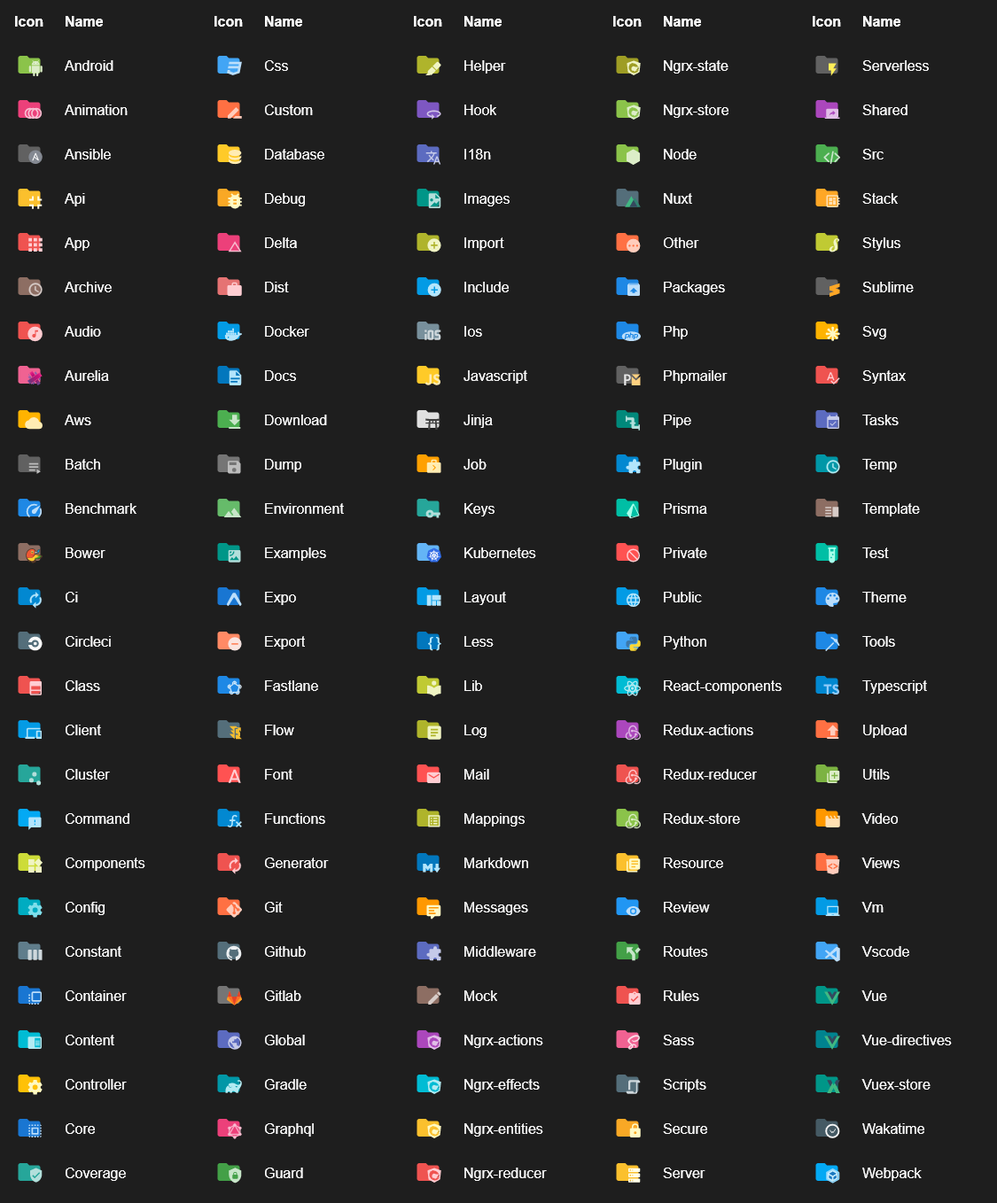
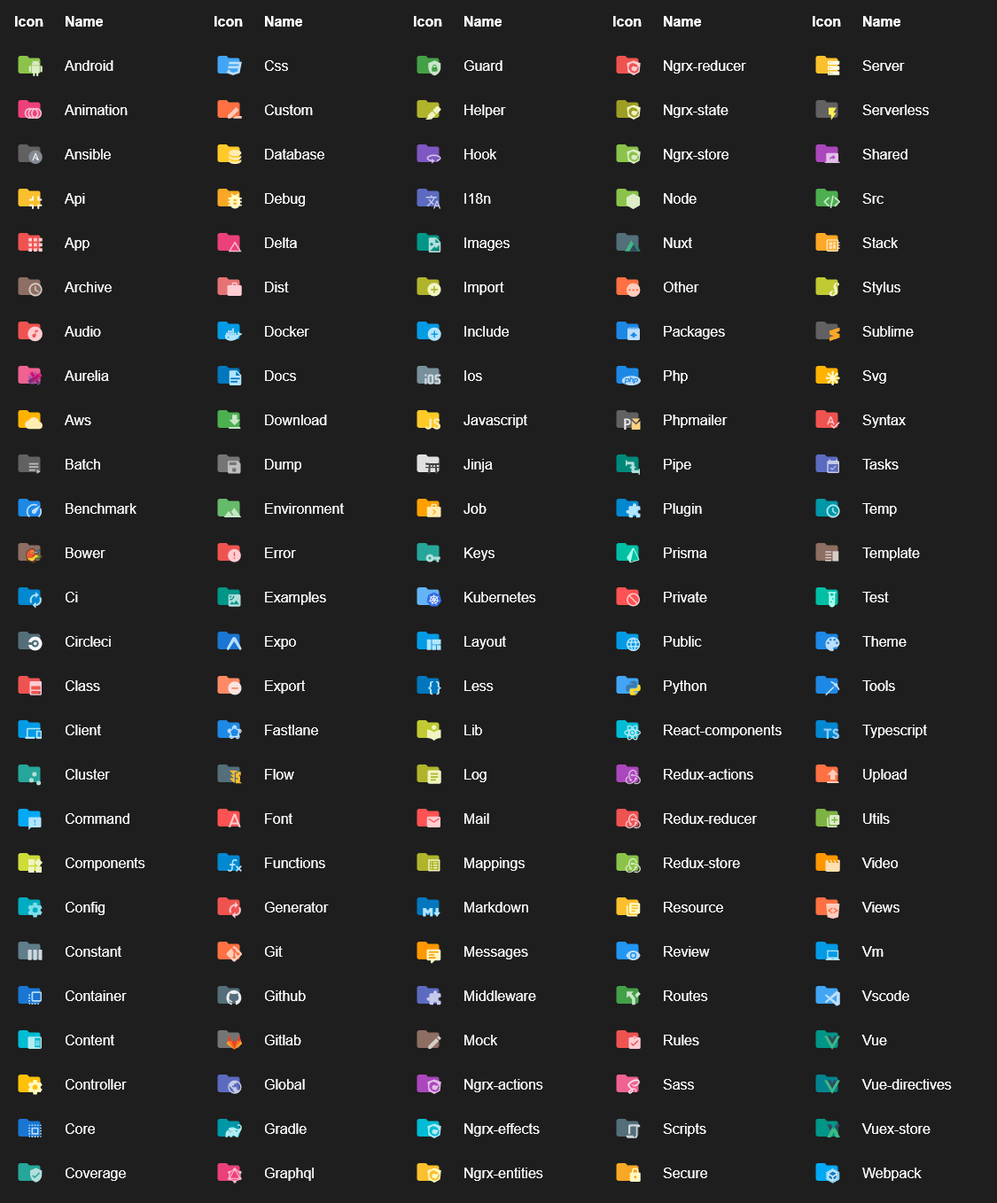
Release 3.8.1

diff --git a/src/scripts/preview/index.ts b/src/scripts/preview/index.ts
@@ -25,5 +25,5 @@ const folderThemes = filterDuplicates(folderIcons.map(theme => {
     return [].concat(...folders);
 }).reduce((a, b) => a.concat(b))).map(i => ({ iconName: i, label: i.replace('folder-', '') }));
 
-generatePreview('fileIcons', basicFileIcons, 5, ['powerpoint']);
-generatePreview('folderIcons', folderThemes, 5, ['folder', 'folder-meta']);
+generatePreview('fileIcons', basicFileIcons, 5, ['powerpoint', 'virtual']);
+generatePreview('folderIcons', folderThemes, 5, ['folder', 'folder-meta', 'folder-wakatime']);

diff --git a/README.md b/README.md
@@ -140,7 +140,7 @@ Press `Ctrl-Shift-P` to open the command palette and type `Material Icons`.
 ## Contributors
 
 [//]: #contributors (start)
-<a href="https://github.com/PKief" title="PKief"><img src="https://avatars2.githubusercontent.com/u/12248527?v=4" width="40px" height="40px" alt="PKief"/></a>&nbsp;<a href="https://github.com/AdrieanKhisbe" title="AdrieanKhisbe"><img src="https://avatars1.githubusercontent.com/u/2601132?v=4" width="40px" height="40px" alt="AdrieanKhisbe"/></a>&nbsp;<a href="https://github.com/dudeofawesome" title="dudeofawesome"><img src="https://avatars0.githubusercontent.com/u/1683595?v=4" width="40px" height="40px" alt="dudeofawesome"/></a>&nbsp;<a href="https://github.com/wopian" title="wopian"><img src="https://avatars0.githubusercontent.com/u/3440094?v=4" width="40px" height="40px" alt="wopian"/></a>&nbsp;<a href="https://github.com/Bakosa666" title="Bakosa666"><img src="https://avatars3.githubusercontent.com/u/38684615?v=4" width="40px" height="40px" alt="Bakosa666"/></a>&nbsp;<a href="https://github.com/diego3g" title="diego3g"><img src="https://avatars2.githubusercontent.com/u/2254731?v=4" width="40px" height="40px" alt="diego3g"/></a>&nbsp;<a href="https://github.com/felipe-fg" title="felipe-fg"><img src="https://avatars2.githubusercontent.com/u/32036831?v=4" width="40px" height="40px" alt="felipe-fg"/></a>&nbsp;<a href="https://github.com/jBugman" title="jBugman"><img src="https://avatars1.githubusercontent.com/u/891785?v=4" width="40px" height="40px" alt="jBugman"/></a>&nbsp;<a href="https://github.com/iFaxity" title="iFaxity"><img src="https://avatars3.githubusercontent.com/u/9090703?v=4" width="40px" height="40px" alt="iFaxity"/></a>&nbsp;<a href="https://github.com/melMass" title="melMass"><img src="https://avatars3.githubusercontent.com/u/7041726?v=4" width="40px" height="40px" alt="melMass"/></a>&nbsp;<a href="https://github.com/Mrgove10" title="Mrgove10"><img src="https://avatars0.githubusercontent.com/u/25491408?v=4" width="40px" height="40px" alt="Mrgove10"/></a>&nbsp;<a href="https://github.com/cezarsa" title="cezarsa"><img src="https://avatars1.githubusercontent.com/u/11041?v=4" width="40px" height="40px" alt="cezarsa"/></a>&nbsp;<a href="https://github.com/KristophUK" title="KristophUK"><img src="https://avatars2.githubusercontent.com/u/6653181?v=4" width="40px" height="40px" alt="KristophUK"/></a>&nbsp;<a href="https://github.com/jediyozh" title="jediyozh"><img src="https://avatars2.githubusercontent.com/u/31045769?v=4" width="40px" height="40px" alt="jediyozh"/></a>&nbsp;<a href="https://github.com/fahmiirsyadk" title="fahmiirsyadk"><img src="https://avatars0.githubusercontent.com/u/17546686?v=4" width="40px" height="40px" alt="fahmiirsyadk"/></a>&nbsp;<a href="https://github.com/iDaN5x" title="iDaN5x"><img src="https://avatars3.githubusercontent.com/u/3427523?v=4" width="40px" height="40px" alt="iDaN5x"/></a>&nbsp;<a href="https://github.com/jtiala" title="jtiala"><img src="https://avatars2.githubusercontent.com/u/1576782?v=4" width="40px" height="40px" alt="jtiala"/></a>&nbsp;<a href="https://github.com/mvochoa" title="mvochoa"><img src="https://avatars2.githubusercontent.com/u/7919838?v=4" width="40px" height="40px" alt="mvochoa"/></a>&nbsp;<a href="https://github.com/martin-sweeny" title="martin-sweeny"><img src="https://avatars1.githubusercontent.com/u/3329959?v=4" width="40px" height="40px" alt="martin-sweeny"/></a>&nbsp;<a href="https://github.com/teototaro" title="teototaro"><img src="https://avatars3.githubusercontent.com/u/6552833?v=4" width="40px" height="40px" alt="teototaro"/></a>&nbsp;<a href="https://github.com/niksudan" title="niksudan"><img src="https://avatars1.githubusercontent.com/u/6004491?v=4" width="40px" height="40px" alt="niksudan"/></a>&nbsp;<a href="https://github.com/yuric18" title="yuric18"><img src="https://avatars3.githubusercontent.com/u/18277197?v=4" width="40px" height="40px" alt="yuric18"/></a>&nbsp;<a href="https://github.com/denisbalyko" title="denisbalyko"><img src="https://avatars0.githubusercontent.com/u/638190?v=4" width="40px" height="40px" alt="denisbalyko"/></a>&nbsp;<a href="https://github.com/dotiful" title="dotiful"><img src="https://avatars1.githubusercontent.com/u/25269527?v=4" width="40px" height="40px" alt="dotiful"/></a>&nbsp;<a href="https://github.com/ycrepeau" title="ycrepeau"><img src="https://avatars2.githubusercontent.com/u/6821466?v=4" width="40px" height="40px" alt="ycrepeau"/></a>&nbsp;<a href="https://github.com/aashutoshrathi" title="aashutoshrathi"><img src="https://avatars2.githubusercontent.com/u/21199234?v=4" width="40px" height="40px" alt="aashutoshrathi"/></a>&nbsp;<a href="https://github.com/dabrowski-adam" title="dabrowski-adam"><img src="https://avatars0.githubusercontent.com/u/6993966?v=4" width="40px" height="40px" alt="dabrowski-adam"/></a>&nbsp;<a href="https://github.com/alefesouza" title="alefesouza"><img src="https://avatars2.githubusercontent.com/u/1693223?v=4" width="40px" height="40px" alt="alefesouza"/></a>&nbsp;<a href="https://github.com/baraalex" title="baraalex"><img src="https://avatars2.githubusercontent.com/u/6618800?v=4" width="40px" height="40px" alt="baraalex"/></a>&nbsp;<a href="https://github.com/tothandras" title="tothandras"><img src="https://avatars0.githubusercontent.com/u/4157749?v=4" width="40px" height="40px" alt="tothandras"/></a>&nbsp;<a href="https://github.com/arpadbarta" title="arpadbarta"><img src="https://avatars3.githubusercontent.com/u/6329203?v=4" width="40px" height="40px" alt="arpadbarta"/></a>&nbsp;<a href="https://github.com/frederick036" title="frederick036"><img src="https://avatars2.githubusercontent.com/u/1129770?v=4" width="40px" height="40px" alt="frederick036"/></a>&nbsp;<a href="https://github.com/bernardop" title="bernardop"><img src="https://avatars1.githubusercontent.com/u/28455?v=4" width="40px" height="40px" alt="bernardop"/></a>&nbsp;<a href="https://github.com/bcanseco" title="bcanseco"><img src="https://avatars3.githubusercontent.com/u/18430599?v=4" width="40px" height="40px" alt="bcanseco"/></a>&nbsp;<a href="https://github.com/bradlc" title="bradlc"><img src="https://avatars0.githubusercontent.com/u/2615508?v=4" width="40px" height="40px" alt="bradlc"/></a>&nbsp;<a href="https://github.com/brennongs" title="brennongs"><img src="https://avatars3.githubusercontent.com/u/24623425?v=4" width="40px" height="40px" alt="brennongs"/></a>&nbsp;<a href="https://github.com/chrsmutti" title="chrsmutti"><img src="https://avatars1.githubusercontent.com/u/34144667?v=4" width="40px" height="40px" alt="chrsmutti"/></a>&nbsp;<a href="https://github.com/TheCloudSaver" title="TheCloudSaver"><img src="https://avatars3.githubusercontent.com/u/39653530?v=4" width="40px" height="40px" alt="TheCloudSaver"/></a>&nbsp;<a href="https://github.com/danielbankhead" title="danielbankhead"><img src="https://avatars3.githubusercontent.com/u/10792787?v=4" width="40px" height="40px" alt="danielbankhead"/></a>&nbsp;<a href="https://github.com/oodavid" title="oodavid"><img src="https://avatars3.githubusercontent.com/u/46879?v=4" width="40px" height="40px" alt="oodavid"/></a>&nbsp;<a href="https://github.com/erikphansen" title="erikphansen"><img src="https://avatars1.githubusercontent.com/u/20728956?v=4" width="40px" height="40px" alt="erikphansen"/></a>&nbsp;<a href="https://github.com/etiennetalbot" title="etiennetalbot"><img src="https://avatars3.githubusercontent.com/u/2954511?v=4" width="40px" height="40px" alt="etiennetalbot"/></a>&nbsp;<a href="https://github.com/ExE-Boss" title="ExE-Boss"><img src="https://avatars0.githubusercontent.com/u/3889017?v=4" width="40px" height="40px" alt="ExE-Boss"/></a>&nbsp;<a href="https://github.com/justalemon" title="justalemon"><img src="https://avatars1.githubusercontent.com/u/11861253?v=4" width="40px" height="40px" alt="justalemon"/></a>&nbsp;<a href="https://github.com/JakubKoralewski" title="JakubKoralewski"><img src="https://avatars0.githubusercontent.com/u/43069023?v=4" width="40px" height="40px" alt="JakubKoralewski"/></a>&nbsp;<a href="https://github.com/wersimmon" title="wersimmon"><img src="https://avatars1.githubusercontent.com/u/185822?v=4" width="40px" height="40px" alt="wersimmon"/></a>&nbsp;<a href="https://github.com/JotaroS" title="JotaroS"><img src="https://avatars2.githubusercontent.com/u/9479730?v=4" width="40px" height="40px" alt="JotaroS"/></a>&nbsp;<a href="https://github.com/RunningCoderLee" title="RunningCoderLee"><img src="https://avatars3.githubusercontent.com/u/13218863?v=4" width="40px" height="40px" alt="RunningCoderLee"/></a>&nbsp;<a href="https://github.com/Krzysztof-Cieslak" title="Krzysztof-Cieslak"><img src="https://avatars1.githubusercontent.com/u/5427083?v=4" width="40px" height="40px" alt="Krzysztof-Cieslak"/></a>&nbsp;<a href="https://github.com/kkemple" title="kkemple"><img src="https://avatars3.githubusercontent.com/u/3629876?v=4" width="40px" height="40px" alt="kkemple"/></a>&nbsp;<a href="https://github.com/leohxj" title="leohxj"><img src="https://avatars3.githubusercontent.com/u/1506900?v=4" width="40px" height="40px" alt="leohxj"/></a>&nbsp;<a href="https://github.com/LukasPolak" title="LukasPolak"><img src="https://avatars3.githubusercontent.com/u/17145302?v=4" width="40px" height="40px" alt="LukasPolak"/></a>&nbsp;<a href="https://github.com/mjbvz" title="mjbvz"><img src="https://avatars2.githubusercontent.com/u/12821956?v=4" width="40px" height="40px" alt="mjbvz"/></a>&nbsp;<a href="https://github.com/MeirionHughes" title="MeirionHughes"><img src="https://avatars2.githubusercontent.com/u/3584509?v=4" width="40px" height="40px" alt="MeirionHughes"/></a>&nbsp;<a href="https://github.com/melkarm" title="melkarm"><img src="https://avatars2.githubusercontent.com/u/32730892?v=4" width="40px" height="40px" alt="melkarm"/></a>&nbsp;<a href="https://github.com/epitaphmike" title="epitaphmike"><img src="https://avatars1.githubusercontent.com/u/677832?v=4" width="40px" height="40px" alt="epitaphmike"/></a>&nbsp;<a href="https://github.com/olehreznichenko" title="olehreznichenko"><img src="https://avatars0.githubusercontent.com/u/11960153?v=4" width="40px" height="40px" alt="olehreznichenko"/></a>&nbsp;<a href="https://github.com/TheDutchCoder" title="TheDutchCoder"><img src="https://avatars2.githubusercontent.com/u/1668207?v=4" width="40px" height="40px" alt="TheDutchCoder"/></a>&nbsp;<a href="https://github.com/rhysforyou" title="rhysforyou"><img src="https://avatars0.githubusercontent.com/u/320910?v=4" width="40px" height="40px" alt="rhysforyou"/></a>&nbsp;<a href="https://github.com/rfgamaral" title="rfgamaral"><img src="https://avatars1.githubusercontent.com/u/96476?v=4" width="40px" height="40px" alt="rfgamaral"/></a>&nbsp;<a href="https://github.com/kukiric" title="kukiric"><img src="https://avatars2.githubusercontent.com/u/6194377?v=4" width="40px" height="40px" alt="kukiric"/></a>&nbsp;<a href="https://github.com/richardmillen94" title="richardmillen94"><img src="https://avatars2.githubusercontent.com/u/22445885?v=4" width="40px" height="40px" alt="richardmillen94"/></a>&nbsp;<a href="https://github.com/richiksc" title="richiksc"><img src="https://avatars1.githubusercontent.com/u/8939680?v=4" width="40px" height="40px" alt="richiksc"/></a>&nbsp;<a href="https://github.com/Faultless" title="Faultless"><img src="https://avatars1.githubusercontent.com/u/7265811?v=4" width="40px" height="40px" alt="Faultless"/></a>&nbsp;<a href="https://github.com/sbekrin" title="sbekrin"><img src="https://avatars0.githubusercontent.com/u/9248479?v=4" width="40px" height="40px" alt="sbekrin"/></a>&nbsp;<a href="https://github.com/leggsimon" title="leggsimon"><img src="https://avatars2.githubusercontent.com/u/11544418?v=4" width="40px" height="40px" alt="leggsimon"/></a>&nbsp;<a href="https://github.com/ffrinds" title="ffrinds"><img src="https://avatars3.githubusercontent.com/u/26288489?v=4" width="40px" height="40px" alt="ffrinds"/></a>&nbsp;<a href="https://github.com/ThomasGeek" title="ThomasGeek"><img src="https://avatars1.githubusercontent.com/u/10091122?v=4" width="40px" height="40px" alt="ThomasGeek"/></a>&nbsp;<a href="https://github.com/timsneath" title="timsneath"><img src="https://avatars3.githubusercontent.com/u/2319867?v=4" width="40px" height="40px" alt="timsneath"/></a>&nbsp;<a href="https://github.com/titouancreach" title="titouancreach"><img src="https://avatars1.githubusercontent.com/u/3995719?v=4" width="40px" height="40px" alt="titouancreach"/></a>&nbsp;<a href="https://github.com/Happycoil" title="Happycoil"><img src="https://avatars2.githubusercontent.com/u/12999248?v=4" width="40px" height="40px" alt="Happycoil"/></a>&nbsp;<a href="https://github.com/william-lohan" title="william-lohan"><img src="https://avatars3.githubusercontent.com/u/8146733?v=4" width="40px" height="40px" alt="william-lohan"/></a>&nbsp;<a href="https://github.com/dmay" title="dmay"><img src="https://avatars0.githubusercontent.com/u/1068398?v=4" width="40px" height="40px" alt="dmay"/></a>&nbsp;<a href="https://github.com/eyal0803" title="eyal0803"><img src="https://avatars1.githubusercontent.com/u/5116133?v=4" width="40px" height="40px" alt="eyal0803"/></a>&nbsp;<a href="https://github.com/mintapp" title="mintapp"><img src="https://avatars0.githubusercontent.com/u/37894041?v=4" width="40px" height="40px" alt="mintapp"/></a>&nbsp;<a href="https://github.com/natemoo-re" title="natemoo-re"><img src="https://avatars0.githubusercontent.com/u/7118177?v=4" width="40px" height="40px" alt="natemoo-re"/></a>&nbsp;<a href="https://github.com/suazithustra" title="suazithustra"><img src="https://avatars3.githubusercontent.com/u/33040041?v=4" width="40px" height="40px" alt="suazithustra"/></a>&nbsp;<a href="https://github.com/khrystuk" title="khrystuk"><img src="https://avatars2.githubusercontent.com/u/22624868?v=4" width="40px" height="40px" alt="khrystuk"/></a>
+<a href="https://github.com/PKief" title="PKief"><img src="https://avatars2.githubusercontent.com/u/12248527?v=4" width="40px" height="40px" alt="PKief"/></a>&nbsp;<a href="https://github.com/AdrieanKhisbe" title="AdrieanKhisbe"><img src="https://avatars1.githubusercontent.com/u/2601132?v=4" width="40px" height="40px" alt="AdrieanKhisbe"/></a>&nbsp;<a href="https://github.com/dudeofawesome" title="dudeofawesome"><img src="https://avatars0.githubusercontent.com/u/1683595?v=4" width="40px" height="40px" alt="dudeofawesome"/></a>&nbsp;<a href="https://github.com/wopian" title="wopian"><img src="https://avatars0.githubusercontent.com/u/3440094?v=4" width="40px" height="40px" alt="wopian"/></a>&nbsp;<a href="https://github.com/Bakosa666" title="Bakosa666"><img src="https://avatars3.githubusercontent.com/u/38684615?v=4" width="40px" height="40px" alt="Bakosa666"/></a>&nbsp;<a href="https://github.com/chrsmutti" title="chrsmutti"><img src="https://avatars1.githubusercontent.com/u/34144667?v=4" width="40px" height="40px" alt="chrsmutti"/></a>&nbsp;<a href="https://github.com/diego3g" title="diego3g"><img src="https://avatars2.githubusercontent.com/u/2254731?v=4" width="40px" height="40px" alt="diego3g"/></a>&nbsp;<a href="https://github.com/felipe-fg" title="felipe-fg"><img src="https://avatars2.githubusercontent.com/u/32036831?v=4" width="40px" height="40px" alt="felipe-fg"/></a>&nbsp;<a href="https://github.com/omento" title="omento"><img src="https://avatars3.githubusercontent.com/u/14795448?v=4" width="40px" height="40px" alt="omento"/></a>&nbsp;<a href="https://github.com/jBugman" title="jBugman"><img src="https://avatars1.githubusercontent.com/u/891785?v=4" width="40px" height="40px" alt="jBugman"/></a>&nbsp;<a href="https://github.com/iFaxity" title="iFaxity"><img src="https://avatars3.githubusercontent.com/u/9090703?v=4" width="40px" height="40px" alt="iFaxity"/></a>&nbsp;<a href="https://github.com/melMass" title="melMass"><img src="https://avatars3.githubusercontent.com/u/7041726?v=4" width="40px" height="40px" alt="melMass"/></a>&nbsp;<a href="https://github.com/Mrgove10" title="Mrgove10"><img src="https://avatars0.githubusercontent.com/u/25491408?v=4" width="40px" height="40px" alt="Mrgove10"/></a>&nbsp;<a href="https://github.com/cezarsa" title="cezarsa"><img src="https://avatars1.githubusercontent.com/u/11041?v=4" width="40px" height="40px" alt="cezarsa"/></a>&nbsp;<a href="https://github.com/KristophUK" title="KristophUK"><img src="https://avatars2.githubusercontent.com/u/6653181?v=4" width="40px" height="40px" alt="KristophUK"/></a>&nbsp;<a href="https://github.com/jediyozh" title="jediyozh"><img src="https://avatars2.githubusercontent.com/u/31045769?v=4" width="40px" height="40px" alt="jediyozh"/></a>&nbsp;<a href="https://github.com/fahmiirsyadk" title="fahmiirsyadk"><img src="https://avatars0.githubusercontent.com/u/17546686?v=4" width="40px" height="40px" alt="fahmiirsyadk"/></a>&nbsp;<a href="https://github.com/iDaN5x" title="iDaN5x"><img src="https://avatars3.githubusercontent.com/u/3427523?v=4" width="40px" height="40px" alt="iDaN5x"/></a>&nbsp;<a href="https://github.com/jtiala" title="jtiala"><img src="https://avatars2.githubusercontent.com/u/1576782?v=4" width="40px" height="40px" alt="jtiala"/></a>&nbsp;<a href="https://github.com/mvochoa" title="mvochoa"><img src="https://avatars2.githubusercontent.com/u/7919838?v=4" width="40px" height="40px" alt="mvochoa"/></a>&nbsp;<a href="https://github.com/martin-sweeny" title="martin-sweeny"><img src="https://avatars1.githubusercontent.com/u/3329959?v=4" width="40px" height="40px" alt="martin-sweeny"/></a>&nbsp;<a href="https://github.com/teototaro" title="teototaro"><img src="https://avatars3.githubusercontent.com/u/6552833?v=4" width="40px" height="40px" alt="teototaro"/></a>&nbsp;<a href="https://github.com/niksudan" title="niksudan"><img src="https://avatars1.githubusercontent.com/u/6004491?v=4" width="40px" height="40px" alt="niksudan"/></a>&nbsp;<a href="https://github.com/yuric18" title="yuric18"><img src="https://avatars3.githubusercontent.com/u/18277197?v=4" width="40px" height="40px" alt="yuric18"/></a>&nbsp;<a href="https://github.com/denisbalyko" title="denisbalyko"><img src="https://avatars0.githubusercontent.com/u/638190?v=4" width="40px" height="40px" alt="denisbalyko"/></a>&nbsp;<a href="https://github.com/dotiful" title="dotiful"><img src="https://avatars1.githubusercontent.com/u/25269527?v=4" width="40px" height="40px" alt="dotiful"/></a>&nbsp;<a href="https://github.com/ycrepeau" title="ycrepeau"><img src="https://avatars2.githubusercontent.com/u/6821466?v=4" width="40px" height="40px" alt="ycrepeau"/></a>&nbsp;<a href="https://github.com/aashutoshrathi" title="aashutoshrathi"><img src="https://avatars2.githubusercontent.com/u/21199234?v=4" width="40px" height="40px" alt="aashutoshrathi"/></a>&nbsp;<a href="https://github.com/dabrowski-adam" title="dabrowski-adam"><img src="https://avatars0.githubusercontent.com/u/6993966?v=4" width="40px" height="40px" alt="dabrowski-adam"/></a>&nbsp;<a href="https://github.com/alefesouza" title="alefesouza"><img src="https://avatars2.githubusercontent.com/u/1693223?v=4" width="40px" height="40px" alt="alefesouza"/></a>&nbsp;<a href="https://github.com/baraalex" title="baraalex"><img src="https://avatars2.githubusercontent.com/u/6618800?v=4" width="40px" height="40px" alt="baraalex"/></a>&nbsp;<a href="https://github.com/AlexaraWu" title="AlexaraWu"><img src="https://avatars0.githubusercontent.com/u/15205102?v=4" width="40px" height="40px" alt="AlexaraWu"/></a>&nbsp;<a href="https://github.com/tothandras" title="tothandras"><img src="https://avatars0.githubusercontent.com/u/4157749?v=4" width="40px" height="40px" alt="tothandras"/></a>&nbsp;<a href="https://github.com/arpadbarta" title="arpadbarta"><img src="https://avatars3.githubusercontent.com/u/6329203?v=4" width="40px" height="40px" alt="arpadbarta"/></a>&nbsp;<a href="https://github.com/frederick036" title="frederick036"><img src="https://avatars2.githubusercontent.com/u/1129770?v=4" width="40px" height="40px" alt="frederick036"/></a>&nbsp;<a href="https://github.com/bernardop" title="bernardop"><img src="https://avatars1.githubusercontent.com/u/28455?v=4" width="40px" height="40px" alt="bernardop"/></a>&nbsp;<a href="https://github.com/bcanseco" title="bcanseco"><img src="https://avatars3.githubusercontent.com/u/18430599?v=4" width="40px" height="40px" alt="bcanseco"/></a>&nbsp;<a href="https://github.com/bradlc" title="bradlc"><img src="https://avatars0.githubusercontent.com/u/2615508?v=4" width="40px" height="40px" alt="bradlc"/></a>&nbsp;<a href="https://github.com/brennongs" title="brennongs"><img src="https://avatars3.githubusercontent.com/u/24623425?v=4" width="40px" height="40px" alt="brennongs"/></a>&nbsp;<a href="https://github.com/Logerfo" title="Logerfo"><img src="https://avatars2.githubusercontent.com/u/19306384?v=4" width="40px" height="40px" alt="Logerfo"/></a>&nbsp;<a href="https://github.com/TheCloudSaver" title="TheCloudSaver"><img src="https://avatars3.githubusercontent.com/u/39653530?v=4" width="40px" height="40px" alt="TheCloudSaver"/></a>&nbsp;<a href="https://github.com/danielbankhead" title="danielbankhead"><img src="https://avatars3.githubusercontent.com/u/10792787?v=4" width="40px" height="40px" alt="danielbankhead"/></a>&nbsp;<a href="https://github.com/oodavid" title="oodavid"><img src="https://avatars3.githubusercontent.com/u/46879?v=4" width="40px" height="40px" alt="oodavid"/></a>&nbsp;<a href="https://github.com/erikphansen" title="erikphansen"><img src="https://avatars1.githubusercontent.com/u/20728956?v=4" width="40px" height="40px" alt="erikphansen"/></a>&nbsp;<a href="https://github.com/etiennetalbot" title="etiennetalbot"><img src="https://avatars3.githubusercontent.com/u/2954511?v=4" width="40px" height="40px" alt="etiennetalbot"/></a>&nbsp;<a href="https://github.com/ExE-Boss" title="ExE-Boss"><img src="https://avatars0.githubusercontent.com/u/3889017?v=4" width="40px" height="40px" alt="ExE-Boss"/></a>&nbsp;<a href="https://github.com/justalemon" title="justalemon"><img src="https://avatars1.githubusercontent.com/u/11861253?v=4" width="40px" height="40px" alt="justalemon"/></a>&nbsp;<a href="https://github.com/JakubKoralewski" title="JakubKoralewski"><img src="https://avatars0.githubusercontent.com/u/43069023?v=4" width="40px" height="40px" alt="JakubKoralewski"/></a>&nbsp;<a href="https://github.com/wersimmon" title="wersimmon"><img src="https://avatars1.githubusercontent.com/u/185822?v=4" width="40px" height="40px" alt="wersimmon"/></a>&nbsp;<a href="https://github.com/JotaroS" title="JotaroS"><img src="https://avatars2.githubusercontent.com/u/9479730?v=4" width="40px" height="40px" alt="JotaroS"/></a>&nbsp;<a href="https://github.com/RunningCoderLee" title="RunningCoderLee"><img src="https://avatars3.githubusercontent.com/u/13218863?v=4" width="40px" height="40px" alt="RunningCoderLee"/></a>&nbsp;<a href="https://github.com/Krzysztof-Cieslak" title="Krzysztof-Cieslak"><img src="https://avatars1.githubusercontent.com/u/5427083?v=4" width="40px" height="40px" alt="Krzysztof-Cieslak"/></a>&nbsp;<a href="https://github.com/kkemple" title="kkemple"><img src="https://avatars3.githubusercontent.com/u/3629876?v=4" width="40px" height="40px" alt="kkemple"/></a>&nbsp;<a href="https://github.com/leohxj" title="leohxj"><img src="https://avatars3.githubusercontent.com/u/1506900?v=4" width="40px" height="40px" alt="leohxj"/></a>&nbsp;<a href="https://github.com/lffg" title="lffg"><img src="https://avatars1.githubusercontent.com/u/23662020?v=4" width="40px" height="40px" alt="lffg"/></a>&nbsp;<a href="https://github.com/LukasPolak" title="LukasPolak"><img src="https://avatars3.githubusercontent.com/u/17145302?v=4" width="40px" height="40px" alt="LukasPolak"/></a>&nbsp;<a href="https://github.com/mjbvz" title="mjbvz"><img src="https://avatars2.githubusercontent.com/u/12821956?v=4" width="40px" height="40px" alt="mjbvz"/></a>&nbsp;<a href="https://github.com/MeirionHughes" title="MeirionHughes"><img src="https://avatars2.githubusercontent.com/u/3584509?v=4" width="40px" height="40px" alt="MeirionHughes"/></a>&nbsp;<a href="https://github.com/melkarm" title="melkarm"><img src="https://avatars2.githubusercontent.com/u/32730892?v=4" width="40px" height="40px" alt="melkarm"/></a>&nbsp;<a href="https://github.com/epitaphmike" title="epitaphmike"><img src="https://avatars1.githubusercontent.com/u/677832?v=4" width="40px" height="40px" alt="epitaphmike"/></a>&nbsp;<a href="https://github.com/olehreznichenko" title="olehreznichenko"><img src="https://avatars0.githubusercontent.com/u/11960153?v=4" width="40px" height="40px" alt="olehreznichenko"/></a>&nbsp;<a href="https://github.com/TheDutchCoder" title="TheDutchCoder"><img src="https://avatars2.githubusercontent.com/u/1668207?v=4" width="40px" height="40px" alt="TheDutchCoder"/></a>&nbsp;<a href="https://github.com/rhysforyou" title="rhysforyou"><img src="https://avatars0.githubusercontent.com/u/320910?v=4" width="40px" height="40px" alt="rhysforyou"/></a>&nbsp;<a href="https://github.com/rfgamaral" title="rfgamaral"><img src="https://avatars1.githubusercontent.com/u/96476?v=4" width="40px" height="40px" alt="rfgamaral"/></a>&nbsp;<a href="https://github.com/kukiric" title="kukiric"><img src="https://avatars2.githubusercontent.com/u/6194377?v=4" width="40px" height="40px" alt="kukiric"/></a>&nbsp;<a href="https://github.com/richardmillen94" title="richardmillen94"><img src="https://avatars2.githubusercontent.com/u/22445885?v=4" width="40px" height="40px" alt="richardmillen94"/></a>&nbsp;<a href="https://github.com/richiksc" title="richiksc"><img src="https://avatars1.githubusercontent.com/u/8939680?v=4" width="40px" height="40px" alt="richiksc"/></a>&nbsp;<a href="https://github.com/Faultless" title="Faultless"><img src="https://avatars1.githubusercontent.com/u/7265811?v=4" width="40px" height="40px" alt="Faultless"/></a>&nbsp;<a href="https://github.com/sbekrin" title="sbekrin"><img src="https://avatars0.githubusercontent.com/u/9248479?v=4" width="40px" height="40px" alt="sbekrin"/></a>&nbsp;<a href="https://github.com/leggsimon" title="leggsimon"><img src="https://avatars2.githubusercontent.com/u/11544418?v=4" width="40px" height="40px" alt="leggsimon"/></a>&nbsp;<a href="https://github.com/ffrinds" title="ffrinds"><img src="https://avatars3.githubusercontent.com/u/26288489?v=4" width="40px" height="40px" alt="ffrinds"/></a>&nbsp;<a href="https://github.com/ThomasGeek" title="ThomasGeek"><img src="https://avatars1.githubusercontent.com/u/10091122?v=4" width="40px" height="40px" alt="ThomasGeek"/></a>&nbsp;<a href="https://github.com/timsneath" title="timsneath"><img src="https://avatars3.githubusercontent.com/u/2319867?v=4" width="40px" height="40px" alt="timsneath"/></a>&nbsp;<a href="https://github.com/titouancreach" title="titouancreach"><img src="https://avatars1.githubusercontent.com/u/3995719?v=4" width="40px" height="40px" alt="titouancreach"/></a>&nbsp;<a href="https://github.com/Happycoil" title="Happycoil"><img src="https://avatars2.githubusercontent.com/u/12999248?v=4" width="40px" height="40px" alt="Happycoil"/></a>&nbsp;<a href="https://github.com/william-lohan" title="william-lohan"><img src="https://avatars3.githubusercontent.com/u/8146733?v=4" width="40px" height="40px" alt="william-lohan"/></a>&nbsp;<a href="https://github.com/dmay" title="dmay"><img src="https://avatars0.githubusercontent.com/u/1068398?v=4" width="40px" height="40px" alt="dmay"/></a>&nbsp;<a href="https://github.com/eyal0803" title="eyal0803"><img src="https://avatars1.githubusercontent.com/u/5116133?v=4" width="40px" height="40px" alt="eyal0803"/></a>&nbsp;<a href="https://github.com/mintapp" title="mintapp"><img src="https://avatars0.githubusercontent.com/u/37894041?v=4" width="40px" height="40px" alt="mintapp"/></a>&nbsp;<a href="https://github.com/natemoo-re" title="natemoo-re"><img src="https://avatars0.githubusercontent.com/u/7118177?v=4" width="40px" height="40px" alt="natemoo-re"/></a>&nbsp;<a href="https://github.com/suazithustra" title="suazithustra"><img src="https://avatars3.githubusercontent.com/u/33040041?v=4" width="40px" height="40px" alt="suazithustra"/></a>&nbsp;<a href="https://github.com/khrystuk" title="khrystuk"><img src="https://avatars2.githubusercontent.com/u/22624868?v=4" width="40px" height="40px" alt="khrystuk"/></a>
 
 [//]: #contributors (end)
 

diff --git a/CHANGELOG.md b/CHANGELOG.md
@@ -1,4 +1,28 @@
 # Changelog
+## 3.8.1 (2019-07-17)
+### New file icons
+- MoonScript ([issue #485](https://github.com/PKief/vscode-material-icon-theme/issues/485))
+- Vim ([@dotiful](https://github.com/dotiful) in [#458](https://github.com/PKief/vscode-material-icon-theme/pull/458))
+- SilverStripe ([@purplespider](https://github.com/purplespider) in [#457](https://github.com/PKief/vscode-material-icon-theme/pull/457))
+- Brotli ([@richiksc](https://github.com/richiksc) in [#460](https://github.com/PKief/vscode-material-icon-theme/pull/460))
+- Unlicense ([@Logerfo](https://github.com/Logerfo) in [#474](https://github.com/PKief/vscode-material-icon-theme/pull/474))
+- *.gitlab-ci.yml ([@martin-sweeny](https://github.com/martin-sweeny) in [#465](https://github.com/PKief/vscode-material-icon-theme/pull/465))
+- go.mod, go.sum ([@chrsmutti](https://github.com/chrsmutti) in [#475](https://github.com/PKief/vscode-material-icon-theme/pull/475))
+- C/C++ icon cases ([@omento](https://github.com/omento) in [#488](https://github.com/PKief/vscode-material-icon-theme/pull/488))
+- .dtx, .ltx ([@AlexaraWu](https://github.com/AlexaraWu) in [#481](https://github.com/PKief/vscode-material-icon-theme/pull/481))
+- jsx / tsx router ([@lffg](https://github.com/lffg) in [#491](https://github.com/PKief/vscode-material-icon-theme/pull/491))
+- PostCSS ([issue #461](https://github.com/PKief/vscode-material-icon-theme/issues/461))
+- .env ([issue #484](https://github.com/PKief/vscode-material-icon-theme/issues/484))
+- nodemon-debug.json
+- Nest
+
+### New folder icons
+- error ([@lffg](https://github.com/lffg) in [#490](https://github.com/PKief/vscode-material-icon-theme/pull/490))
+- website
+
+### Other improvements
+- Add profile pictures of contributors to Readme.md ([issue #448](https://github.com/PKief/vscode-material-icon-theme/issues/448))
+
 ## 3.8.0 (2019-05-25)
 ### New features
 - Vue.js and Vuex theme ([@Bakosa666](https://github.com/Bakosa666) in [#402](https://github.com/PKief/vscode-material-icon-theme/pull/402))
